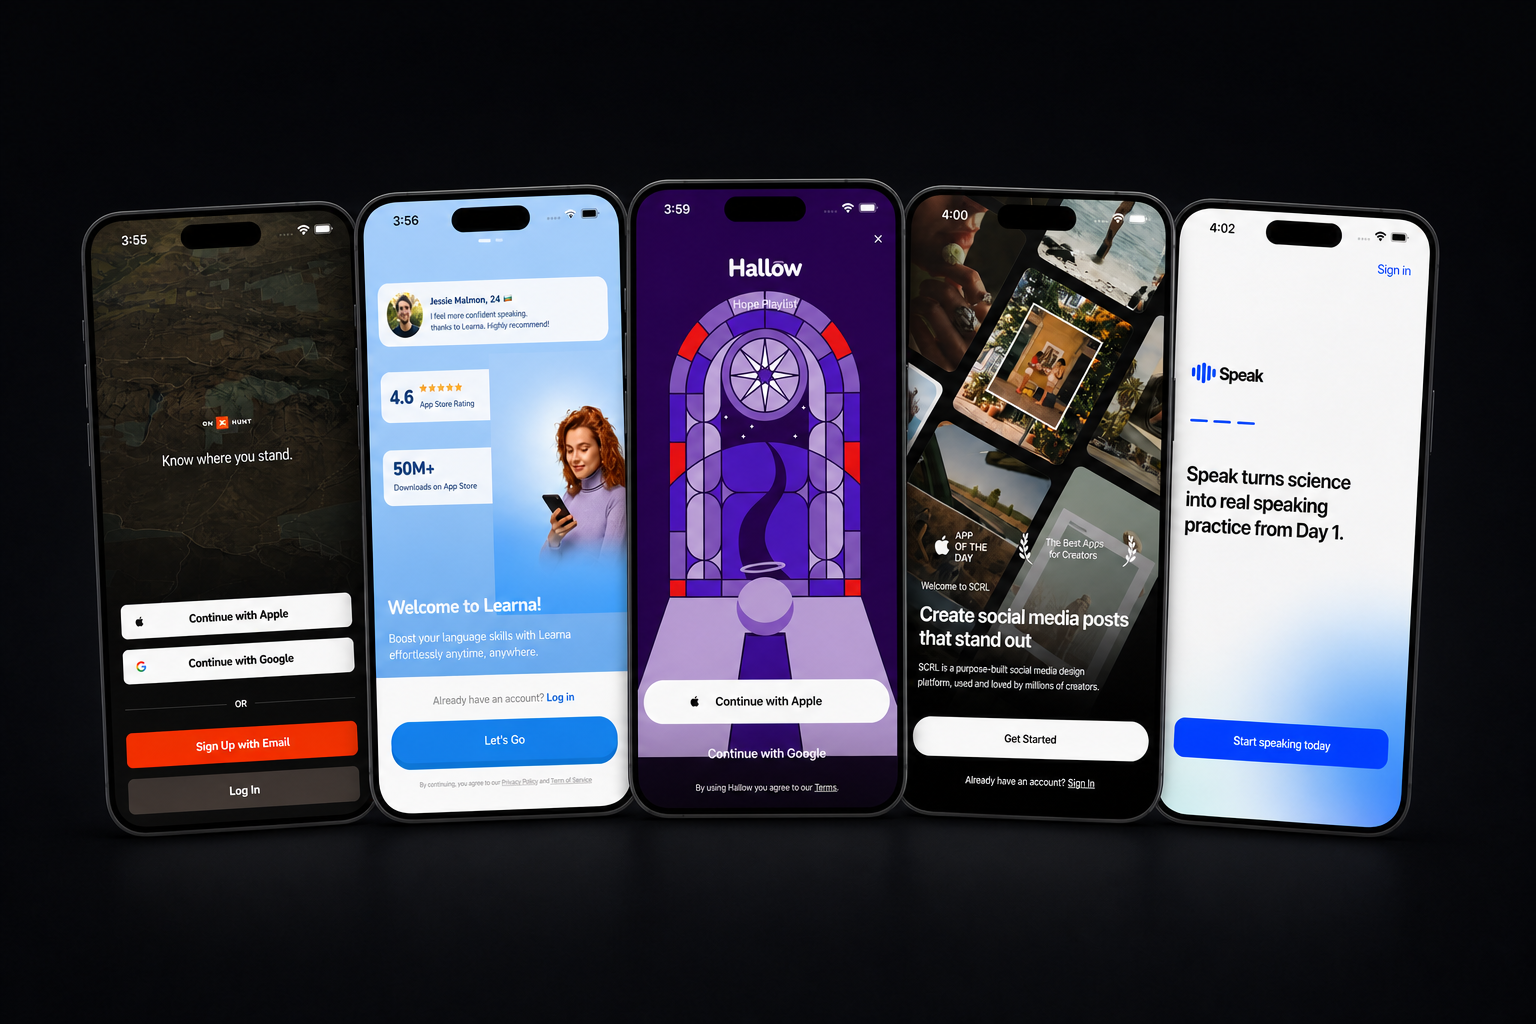
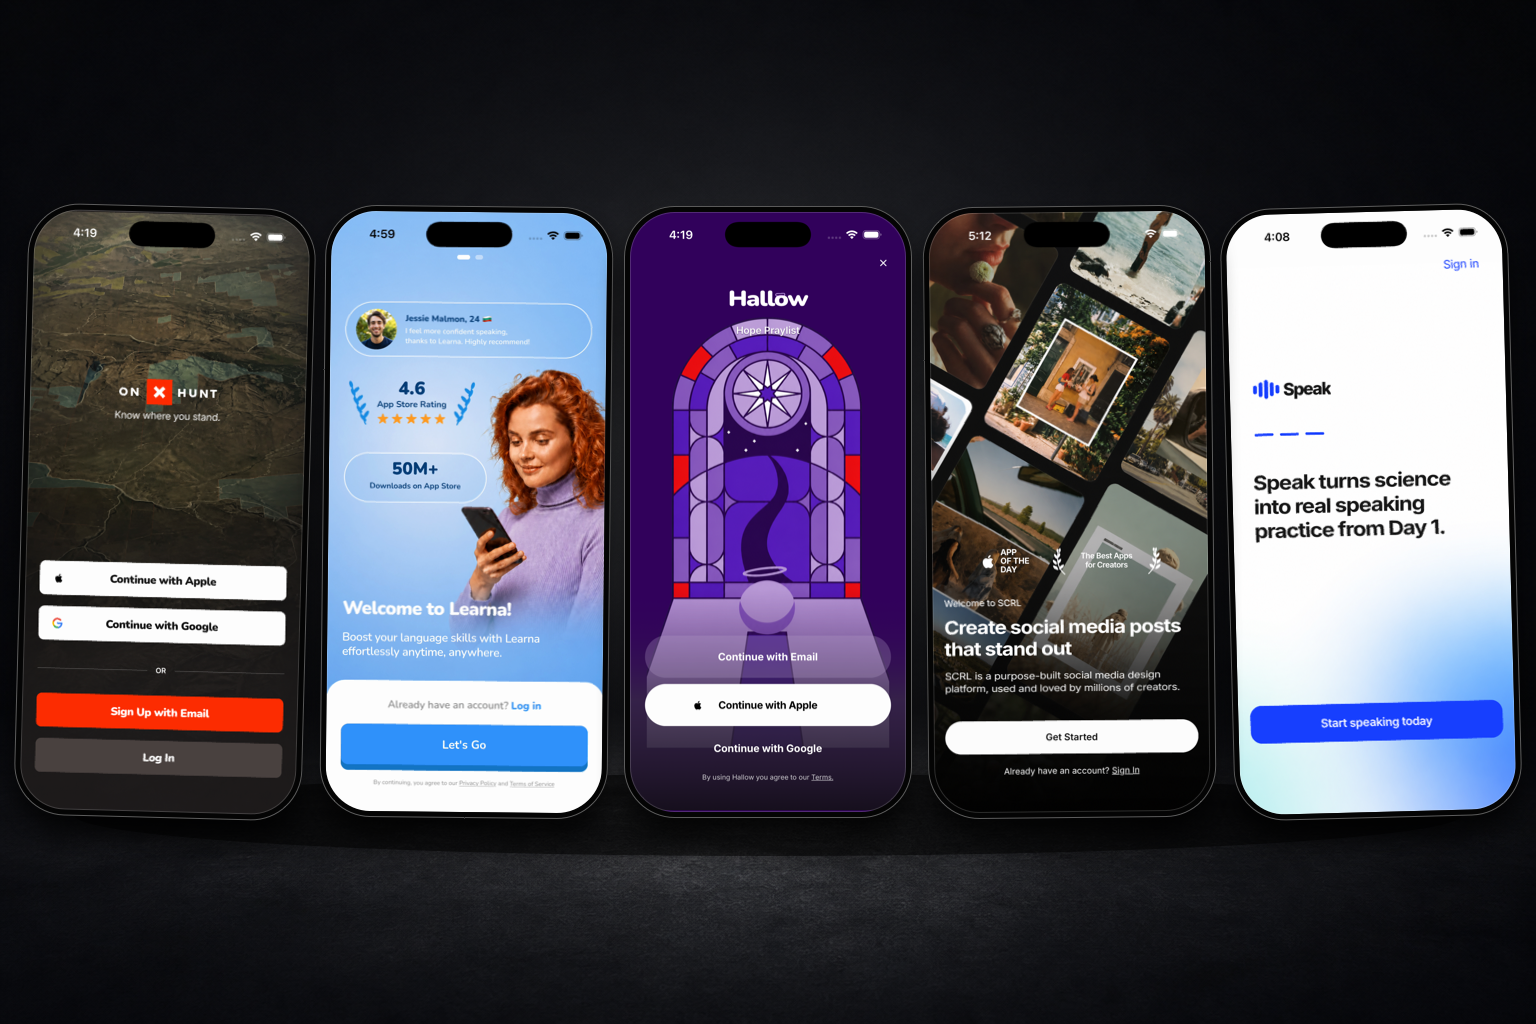
docs: preserve exact welcome screen renders

diff --git a/scripts/render-showcase.swift b/scripts/render-showcase.swift
@@ -1,0 +1,258 @@
+#!/usr/bin/env swift
+
+import AppKit
+import Foundation
+
+private struct PhonePlacement {
+  let centerX: CGFloat
+  let rotation: CGFloat
+}
+
+private struct Panel {
+  let captures: [String]
+  let output: String
+}
+
+private let canvasWidth = 1536
+private let canvasHeight = 1024
+private let sourceWidth = 1206
+private let sourceHeight = 2622
+private let screenWidth: CGFloat = 276
+private let screenHeight = screenWidth * CGFloat(sourceHeight) / CGFloat(sourceWidth)
+private let bezel: CGFloat = 6
+private let phoneWidth = screenWidth + (bezel * 2)
+private let phoneHeight = screenHeight + (bezel * 2)
+
+private let placements = [
+  PhonePlacement(centerX: 165, rotation: -1.5),
+  PhonePlacement(centerX: 466.5, rotation: -0.6),
+  PhonePlacement(centerX: 768, rotation: 0),
+  PhonePlacement(centerX: 1069.5, rotation: 0.6),
+  PhonePlacement(centerX: 1371, rotation: 1.5),
+]
+
+// Draw the outer pair first, then the inner pair, and the center phone last so
+// overlaps remain symmetrical without perspective or non-uniform scaling.
+private let drawOrder = [0, 4, 1, 3, 2]
+
+private let panels = [
+  Panel(
+    captures: [
+      "duolingo-static-final.png",
+      "strava-final.png",
+      "myfitnesspal-static-final.png",
+      "perplexity-final.png",
+      "yazio-static-final.png",
+    ],
+    output: "welcome-screens-showcase-01.png"
+  ),
+  Panel(
+    captures: [
+      "onx-hunt-final-qa.png",
+      "speak-learn-qa-final-motion.png",
+      "hallow-final-qa.png",
+      "scrl-static-final.png",
+      "speak-language-final-2.png",
+    ],
+    output: "welcome-screens-showcase-02.png"
+  ),
+]
+
+private func fail(_ message: String) -> Never {
+  FileHandle.standardError.write(Data("Showcase render failed: \(message)\n".utf8))
+  exit(1)
+}
+
+private func loadBitmap(at path: String, expectedSize: NSSize? = nil) -> NSImage {
+  let url = URL(fileURLWithPath: path)
+  guard let data = try? Data(contentsOf: url),
+        let representation = NSBitmapImageRep(data: data) else {
+    fail("could not read \(path)")
+  }
+
+  if let expectedSize,
+     representation.pixelsWide != Int(expectedSize.width)
+       || representation.pixelsHigh != Int(expectedSize.height) {
+    fail(
+      "\(path) is \(representation.pixelsWide)x\(representation.pixelsHigh); "
+        + "expected \(Int(expectedSize.width))x\(Int(expectedSize.height))"
+    )
+  }
+
+  let image = NSImage(
+    size: NSSize(width: representation.pixelsWide, height: representation.pixelsHigh)
+  )
+  image.addRepresentation(representation)
+  return image
+}
+
+private func drawPhone(image: NSImage, placement: PhonePlacement) {
+  NSGraphicsContext.saveGraphicsState()
+
+  let transform = NSAffineTransform()
+  transform.translateX(by: placement.centerX, yBy: CGFloat(canvasHeight) / 2)
+  transform.rotate(byDegrees: placement.rotation)
+  transform.concat()
+
+  let phoneRect = NSRect(
+    x: -phoneWidth / 2,
+    y: -phoneHeight / 2,
+    width: phoneWidth,
+    height: phoneHeight
+  )
+  let screenRect = NSRect(
+    x: -screenWidth / 2,
+    y: -screenHeight / 2,
+    width: screenWidth,
+    height: screenHeight
+  )
+
+  NSGraphicsContext.saveGraphicsState()
+  let phoneShadow = NSShadow()
+  phoneShadow.shadowColor = NSColor.black.withAlphaComponent(0.76)
+  phoneShadow.shadowBlurRadius = 28
+  phoneShadow.shadowOffset = NSSize(width: 0, height: -18)
+  phoneShadow.set()
+
+  NSColor(calibratedWhite: 0.018, alpha: 1).setFill()
+  NSBezierPath(
+    roundedRect: phoneRect,
+    xRadius: 51,
+    yRadius: 51
+  ).fill()
+  NSGraphicsContext.restoreGraphicsState()
+
+  let outerEdge = NSBezierPath(
+    roundedRect: phoneRect.insetBy(dx: 0.5, dy: 0.5),
+    xRadius: 50.5,
+    yRadius: 50.5
+  )
+  outerEdge.lineWidth = 1
+  NSColor(calibratedWhite: 0.42, alpha: 0.72).setStroke()
+  outerEdge.stroke()
+
+  NSGraphicsContext.saveGraphicsState()
+  NSBezierPath(
+    roundedRect: screenRect,
+    xRadius: 45,
+    yRadius: 45
+  ).addClip()
+  image.draw(
+    in: screenRect,
+    from: .zero,
+    operation: .sourceOver,
+    fraction: 1,
+    respectFlipped: true,
+    hints: [.interpolation: NSImageInterpolation.high]
+  )
+  NSGraphicsContext.restoreGraphicsState()
+
+  let screenEdge = NSBezierPath(
+    roundedRect: screenRect.insetBy(dx: 0.5, dy: 0.5),
+    xRadius: 44.5,
+    yRadius: 44.5
+  )
+  screenEdge.lineWidth = 1
+  NSColor.white.withAlphaComponent(0.16).setStroke()
+  screenEdge.stroke()
+
+  NSGraphicsContext.restoreGraphicsState()
+}
+
+private func render(panel: Panel, captureDirectory: String, repoRoot: String) {
+  let outputPath = URL(fileURLWithPath: repoRoot)
+    .appendingPathComponent("docs/images")
+    .appendingPathComponent(panel.output)
+    .path
+  let backdropPath = URL(fileURLWithPath: repoRoot)
+    .appendingPathComponent("docs/images/showcase-backdrop.png")
+    .path
+
+  let backdrop = loadBitmap(
+    at: backdropPath,
+    expectedSize: NSSize(width: canvasWidth, height: canvasHeight)
+  )
+  let captures = panel.captures.map { capture -> NSImage in
+    loadBitmap(
+      at: URL(fileURLWithPath: captureDirectory).appendingPathComponent(capture).path,
+      expectedSize: NSSize(width: sourceWidth, height: sourceHeight)
+    )
+  }
+
+  guard let bitmap = NSBitmapImageRep(
+    bitmapDataPlanes: nil,
+    pixelsWide: canvasWidth,
+    pixelsHigh: canvasHeight,
+    bitsPerSample: 8,
+    samplesPerPixel: 4,
+    hasAlpha: true,
+    isPlanar: false,
+    colorSpaceName: NSColorSpaceName.deviceRGB,
+    bytesPerRow: 0,
+    bitsPerPixel: 0
+  ), let context = NSGraphicsContext(bitmapImageRep: bitmap) else {
+    fail("could not create the \(canvasWidth)x\(canvasHeight) output context")
+  }
+
+  let previousContext = NSGraphicsContext.current
+  NSGraphicsContext.current = context
+  context.imageInterpolation = NSImageInterpolation.high
+
+  backdrop.draw(
+    in: NSRect(x: 0, y: 0, width: canvasWidth, height: canvasHeight),
+    from: .zero,
+    operation: .copy,
+    fraction: 1,
+    respectFlipped: true,
+    hints: [.interpolation: NSImageInterpolation.high]
+  )
+
+  // One shared grounding shadow ties the five devices to the same studio floor.
+  NSGraphicsContext.saveGraphicsState()
+  let floorShadow = NSShadow()
+  floorShadow.shadowColor = NSColor.black.withAlphaComponent(0.72)
+  floorShadow.shadowBlurRadius = 34
+  floorShadow.shadowOffset = NSSize(width: 0, height: -5)
+  floorShadow.set()
+  NSColor.black.withAlphaComponent(0.54).setFill()
+  NSBezierPath(
+    ovalIn: NSRect(x: 74, y: 168, width: 1388, height: 82)
+  ).fill()
+  NSGraphicsContext.restoreGraphicsState()
+
+  for index in drawOrder {
+    drawPhone(image: captures[index], placement: placements[index])
+  }
+
+  context.flushGraphics()
+  NSGraphicsContext.current = previousContext
+
+  guard let png = bitmap.representation(
+    using: NSBitmapImageRep.FileType.png,
+    properties: [NSBitmapImageRep.PropertyKey.compressionFactor: 1]
+  ) else {
+    fail("could not encode \(panel.output)")
+  }
+
+  do {
+    try png.write(to: URL(fileURLWithPath: outputPath), options: Data.WritingOptions.atomic)
+  } catch {
+    fail("could not write \(outputPath): \(error.localizedDescription)")
+  }
+
+  let renderedWidth = String(format: "%.3f", screenWidth)
+  let renderedHeight = String(format: "%.3f", screenHeight)
+  let renderedRatio = String(format: "%.9f", screenHeight / screenWidth)
+  print(
+    "Rendered \(panel.output): \(canvasWidth)x\(canvasHeight), "
+      + "screens \(renderedWidth)x\(renderedHeight), ratio \(renderedRatio):1"
+  )
+}
+
+let repoRoot = FileManager.default.currentDirectoryPath
+let captureDirectory = ProcessInfo.processInfo.environment["WELCOME_SHOWCASE_CAPTURE_DIR"]
+  ?? "/private/tmp/wsg-screens"
+
+for panel in panels {
+  render(panel: panel, captureDirectory: captureDirectory, repoRoot: repoRoot)
+}

diff --git a/docs/ASSET_PROVENANCE.md b/docs/ASSET_PROVENANCE.md
@@ -27,10 +27,13 @@ Brand-identifying names and artwork remain subject to the rights described in [`
 | --- | --- |
 | `docs/images/appllama-logo-dark.png` | Official Appllama logo downloaded from `https://public.appllama.io/appllama-logo-dark.png` for dark GitHub surfaces. |
 | `docs/images/appllama-logo-light.png` | Official Appllama light-surface logo variant downloaded from `https://public.appllama.io/appllama-logo-light.png`. |
-| `docs/images/welcome-screens-showcase-01.png` | 1536×1024 GPT Image 2 composition generated through the Codex ImageGen workflow from simulator captures of this repository's Duolingo, Strava, MyFitnessPal, Perplexity, and Yazio implementations. |
-| `docs/images/welcome-screens-showcase-02.png` | 1536×1024 GPT Image 2 composition generated through the Codex ImageGen workflow from simulator captures of this repository's onX Hunt, Speak & Learn, Hallow, SCRL, and Speak: Language Learning implementations. |
+| `docs/images/showcase-backdrop.png` | Shared 1536×1024 neutral studio backdrop created with GPT Image 2 through the Codex ImageGen workflow. It contains no phones, interfaces, logos, words, icons, or referenced product artwork. |
+| `docs/images/welcome-screens-showcase-01.png` | Deterministic 1536×1024 AppKit composite of exact simulator captures from this repository's Duolingo, Strava, MyFitnessPal, Perplexity, and Yazio implementations. |
+| `docs/images/welcome-screens-showcase-02.png` | Deterministic 1536×1024 AppKit composite of exact simulator captures from this repository's onX Hunt, Speak & Learn, Hallow, SCRL, and Speak: Language Learning implementations. |
 
-The two showcase prompts treated each simulator capture as a rigid screen layer and requested one matched 3:2 set: identical near-black studio backgrounds, realistic iPhone proportions, equal optical scale, aligned baselines, restrained shadows, and no added title, logo, label, watermark, or new interface content. The original third-party reference captures were not provided to the generation step and are not embedded in these README assets.
+The two panels are rendered by [`scripts/render-showcase.swift`](../scripts/render-showcase.swift). Every 1206×2622 simulator capture is uniformly scaled to 276×600.06 pixels, clipped only by the device corner mask, and composited over the same backdrop. The script does not use perspective deformation, independent horizontal or vertical scaling, or generative reconstruction of any interface pixels. This preserves Yazio's real wordmark geometry and the complete Speak & Learn testimonial, laurels, rating, download card, portrait, copy, and controls.
+
+Only the shared empty backdrop was generated. The original third-party reference captures were not provided to that generation step and are not embedded in these README assets.
 
 ## Reference inputs
 
